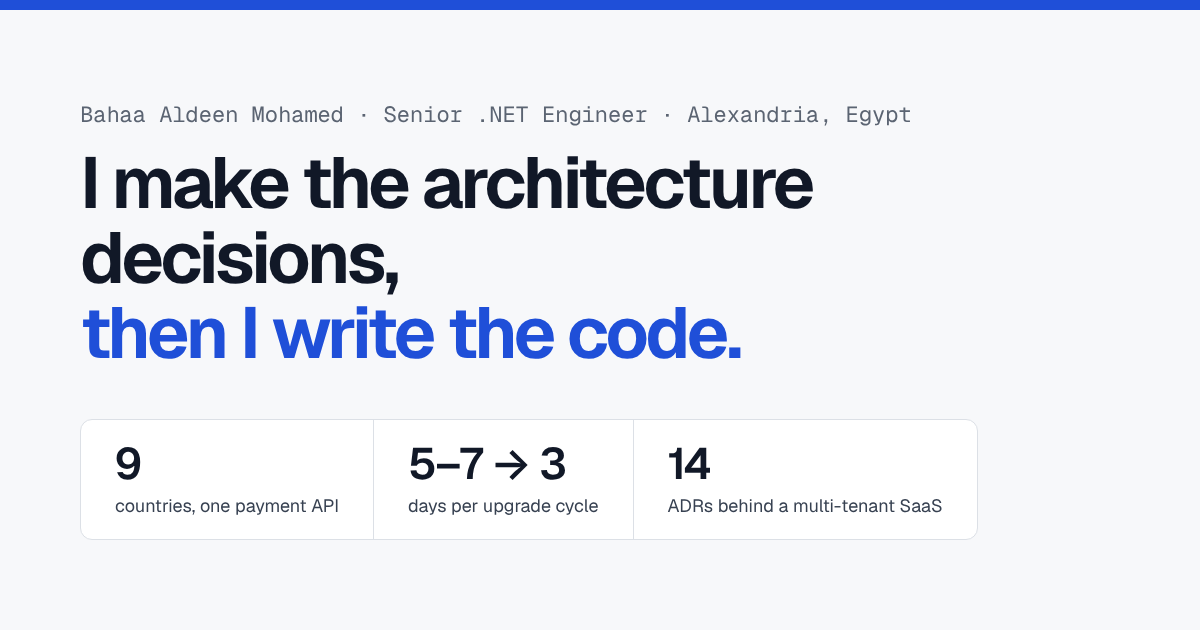
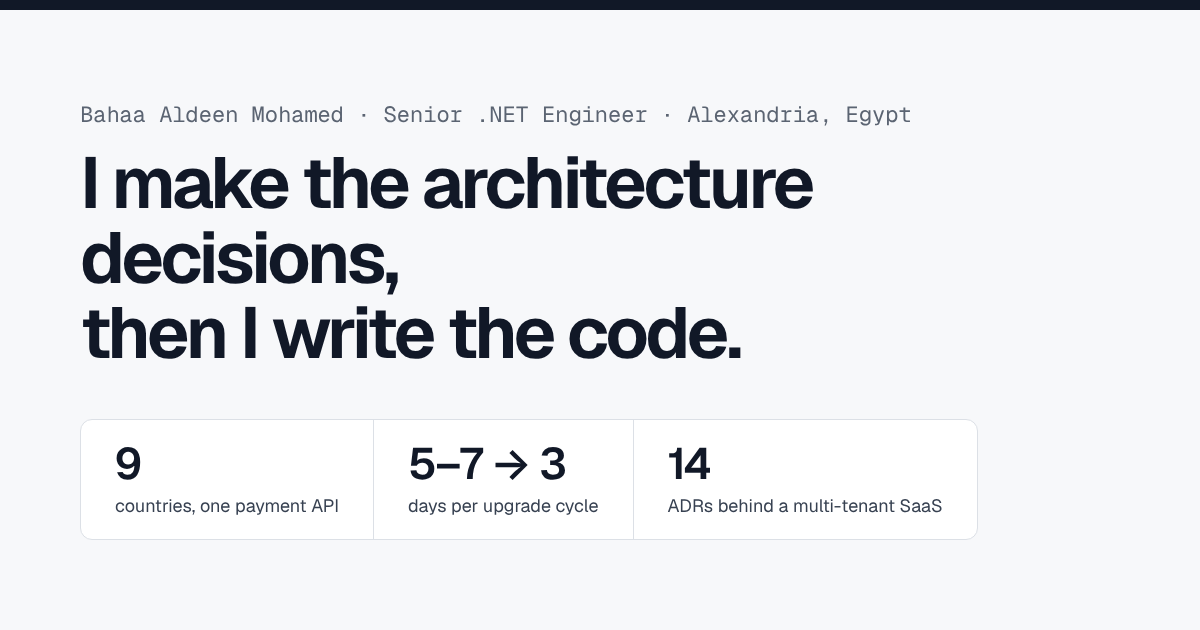
Switch to a graphite accent, add WhatsApp and CV to the dock
The owner rejected the cobalt accent after comparing six options and chose
graphite: near-black does every accent job and links stay underlined, so
nothing relies on colour. Tokens, contrast notes, DESIGN.md and the link
preview image follow.

The contact dock gains WhatsApp (wa.me, derived from the phone number so the
digits are never printed) and a filled CV download; prerender.py's static
dock mirrors it. Disclosures ("Also across the stack", "Show N more") are
now outlined buttons with a turning chevron — as bare text they read as
headings and were missed.

Claude-Session: https://claude.ai/code/session_017tXqJyyeoc4XyhM5CvdD5D

Changed region(s): [[0.0617, 0.4825, 0.6167, 0.573], [0.0, 0.0, 1.0, 0.0302]]

diff --git a/src/Cv.Web/wwwroot/css/app.css b/src/Cv.Web/wwwroot/css/app.css
@@ -1,8 +1,8 @@
 /* ==========================================================================
    SPEC SHEET — the showcase's visual world (2026-10-04).
 
-   The portfolio as good engineering documentation: cool neutral greys, one
-   cobalt accent, a modern grotesk with its own mono, flat sections separated
+   The portfolio as good engineering documentation: cool neutral greys, a
+   graphite accent (no hue), a modern grotesk with its own mono, flat sections separated
    by hairlines, and nothing shaped like a capsule. It replaces the Annual
    Report (rag paper, ledger green, bronze) at the owner's word — he did not
    like the pills or the colours — and after a design review that found every
@@ -22,7 +22,7 @@
    cannot share one declaration list between them. Change both.
 
    Contrast (light, on --paper #f7f8fa): ink 16.9:1, ink-soft 9.8:1, ink-faint
-   5.7:1, accent 6.3:1. Dark (on #0d1117): 15.7, 9.9, 6.2, 7.7. Control
+   5.7:1, accent 16.7:1. Dark (on #0d1117): 15.7, 9.9, 6.2, 17.2. Control
    borders (--edge-silver) hold 3:1 against both grounds.
    ========================================================================== */
 
@@ -38,24 +38,26 @@
     --ink-soft: #374151;
     --ink-faint: #5b6472;
 
-    /* The one accent: cobalt. Links, the primary action, focus, "current". */
-    --accent: #1f4fd8;
-    --accent-bright: #1a3fb0;
-    --accent-wash: #ebf0fd;
-    --action-bg: #1f4fd8;
-    --action-bg-hover: #1a3fb0;
+    /* The accent is graphite: no hue. Near-black carries links (always underlined,
+       so they never rely on colour), the primary action, focus and "current".
+       Chosen 2026-10-04 over cobalt, which the owner disliked. */
+    --accent: #111827;
+    --accent-bright: #374151;
+    --accent-wash: #eef0f3;
+    --action-bg: #111827;
+    --action-bg-hover: #2d3748;
     --action-ink: #ffffff;
 
     /* Recognition is no longer a second metal — it reads as ink and accent. */
-    --gold: #1f4fd8;
-    --gold-wash: #ebf0fd;
+    --gold: #111827;
+    --gold-wash: #eef0f3;
 
     --alarm: #b42318;
     --alarm-wash: #fdecea;
 
     /* Diagram fallback hues. */
     --stage-legacy: #5b6472;
-    --stage-lead: #1f4fd8;
+    --stage-lead: #111827;
 
     /* Hairlines and control borders. --line separates; --edge-silver outlines
        interactive controls and holds 3:1 for WCAG 1.4.11. */
@@ -107,21 +109,21 @@
         --ink-soft: #b4bcc8;
         --ink-faint: #8b95a3;
 
-        --accent: #7da2ff;
-        --accent-bright: #9db8ff;
-        --accent-wash: #18233d;
-        --action-bg: #7da2ff;
-        --action-bg-hover: #9db8ff;
-        --action-ink: #0b1220;
+        --accent: #f3f4f6;
+        --accent-bright: #d1d5db;
+        --accent-wash: #1b222c;
+        --action-bg: #f3f4f6;
+        --action-bg-hover: #d1d5db;
+        --action-ink: #0d1117;
 
-        --gold: #7da2ff;
-        --gold-wash: #18233d;
+        --gold: #f3f4f6;
+        --gold-wash: #1b222c;
 
         --alarm: #f97066;
         --alarm-wash: #2d1414;
 
         --stage-legacy: #8b95a3;
-        --stage-lead: #7da2ff;
+        --stage-lead: #f3f4f6;
 
         --line: #2a323d;
         --wash: #1b222c;
@@ -144,21 +146,21 @@
     --ink-soft: #b4bcc8;
     --ink-faint: #8b95a3;
 
-    --accent: #7da2ff;
-    --accent-bright: #9db8ff;
-    --accent-wash: #18233d;
-    --action-bg: #7da2ff;
-    --action-bg-hover: #9db8ff;
-    --action-ink: #0b1220;
+    --accent: #f3f4f6;
+    --accent-bright: #d1d5db;
+    --accent-wash: #1b222c;
+    --action-bg: #f3f4f6;
+    --action-bg-hover: #d1d5db;
+    --action-ink: #0d1117;
 
-    --gold: #7da2ff;
-    --gold-wash: #18233d;
+    --gold: #f3f4f6;
+    --gold-wash: #1b222c;
 
     --alarm: #f97066;
     --alarm-wash: #2d1414;
 
     --stage-legacy: #8b95a3;
-    --stage-lead: #7da2ff;
+    --stage-lead: #f3f4f6;
 
     --line: #2a323d;
     --wash: #1b222c;
@@ -200,7 +202,7 @@ body {
     text-rendering: optimizeLegibility;
 }
 
-::selection { background: rgba(31, 79, 216, .2); }
+::selection { background: rgba(120, 130, 145, .28); }
 
 ::-webkit-scrollbar { width: 12px; height: 12px; }
 ::-webkit-scrollbar-track { background: var(--paper); }
@@ -662,34 +664,41 @@ main { display: block; padding-bottom: 4rem; }
 .chip__where { font-family: var(--font-mono); font-size: .72rem; color: var(--ink-faint); }
 
 .disclosure { margin-top: 1.4rem; }
+/*
+    A disclosure looks like the control it is: an outlined button with a chevron
+    that turns when open. The text-only summary read as a heading, so readers did
+    not see that it expanded.
+*/
 .disclosure summary {
     cursor: pointer;
     display: inline-flex;
     align-items: center;
-    gap: .4rem;
+    gap: .55rem;
     min-height: 2.75rem;
-    font-size: .95rem;
+    padding: .45rem .9rem;
+    border: 1px solid var(--edge-silver);
+    border-radius: var(--radius-sm);
+    background: var(--sheet-solid);
+    font-size: .93rem;
     font-weight: 500;
-    color: var(--accent);
+    color: var(--ink);
     list-style: none;
+    user-select: none;
+    transition: border-color .15s ease, background .15s ease;
 }
 .disclosure summary::-webkit-details-marker { display: none; }
-.disclosure summary::before {
-    content: "+";
-    display: inline-flex;
-    align-items: center;
-    justify-content: center;
-    width: 1.1rem;
-    height: 1.1rem;
-    border: 1px solid currentColor;
-    border-radius: 3px;
-    font-family: var(--font-mono);
-    font-size: .8rem;
-    line-height: 1;
+.disclosure summary::after {
+    content: "";
+    width: .45rem;
+    height: .45rem;
+    border-right: 1.5px solid currentColor;
+    border-bottom: 1.5px solid currentColor;
+    transform: translateY(-2px) rotate(45deg);
+    transition: transform .2s ease;
 }
-.disclosure[open] summary::before { content: "−"; }
-.disclosure summary:hover { color: var(--accent-bright); }
-.disclosure[open] summary { margin-bottom: .6rem; }
+.disclosure[open] summary::after { transform: translateY(2px) rotate(-135deg); }
+.disclosure summary:hover { border-color: var(--ink); }
+.disclosure[open] summary { margin-bottom: 1rem; background: var(--wash); }
 
 .skills__more { border-top: 1px solid var(--line); padding-top: .8rem; margin-top: 2.4rem; }
 
@@ -1037,6 +1046,16 @@ main { display: block; padding-bottom: 4rem; }
     text-transform: none;
 }
 .contact-dock__action svg { width: 1rem; height: 1rem; flex: none; }
+.contact-dock__action--cv {
+    background: var(--action-bg);
+    color: var(--action-ink);
+}
+.contact-dock__action--cv:hover { background: var(--action-bg-hover); color: var(--action-ink); }
+
+/* Four actions on a 390px screen: tighter padding and labels, same 44px taps. */
+@media (max-width: 430px) {
+    .contact-dock__action { padding: 0 .6rem; gap: .35rem; font-size: .84rem; }
+}
 .contact-dock__action:hover {
     color: var(--accent);
     background: var(--wash);

diff --git a/src/Cv.Web/wwwroot/og.html b/src/Cv.Web/wwwroot/og.html
@@ -26,7 +26,7 @@
             color: #111827;
             background: #f7f8fa;
             overflow: hidden;
-            border-top: 10px solid #1f4fd8;
+            border-top: 10px solid #111827;
         }
 
         .who {
@@ -43,7 +43,7 @@
             letter-spacing: -.045em;
         }
 
-        h1 span { color: #1f4fd8; }
+        h1 span { color: #111827; }
 
         .facts {
             display: flex;

diff --git a/src/Cv.Web/Components/Showcase/CareerTimeline.razor.css b/src/Cv.Web/Components/Showcase/CareerTimeline.razor.css
@@ -118,7 +118,7 @@
 }
 
 @keyframes pulse-node {
-    0%, 100% { box-shadow: 0 0 0 0 rgba(31, 79, 216, .35); }
+    0%, 100% { box-shadow: 0 0 0 0 rgba(120, 130, 145, .4); }
     50%      { box-shadow: 0 0 0 6px transparent; }
 }
 

diff --git a/_tools/prerender.py b/_tools/prerender.py
@@ -592,6 +592,8 @@ def static_contact_dock(cv: dict) -> str:
     """
     phone = cv["profile"]["phone"]
     tel = "".join(c for c in phone if c.isdigit() or c == "+")
+    # Profile.WhatsAppHref's equivalent: wa.me wants bare digits, no "+".
+    whatsapp = "https://wa.me/" + "".join(c for c in phone if c.isdigit())
     mail = e(cv["profile"]["email"])
     return (
         '<nav class="contact-dock" aria-label="Contact">'
@@ -603,12 +605,24 @@ def static_contact_dock(cv: dict) -> str:
         '2 2 0 0 1-.45 2.11L8.09 9.91a16 16 0 0 0 6 6l1.27-1.27a2 2 0 0 1 2.11-.45 12.84 12.84 0 0 0 '
         '2.81.7A2 2 0 0 1 22 16.92z"></path></svg>'
         "<span>Call</span></a>"
+        f'<a class="contact-dock__action" href="{whatsapp}" target="_blank" rel="noopener">'
+        '<svg viewBox="0 0 24 24" fill="none" stroke="currentColor" stroke-width="1.6" '
+        'stroke-linecap="round" stroke-linejoin="round" aria-hidden="true">'
+        '<path d="M7.9 20A9 9 0 1 0 4 16.1L2 22Z"></path>'
+        '</svg>'
+        "<span>WhatsApp</span></a>"
         f'<a class="contact-dock__action" href="mailto:{mail}">'
         '<svg viewBox="0 0 24 24" fill="none" stroke="currentColor" stroke-width="1.6" '
         'stroke-linecap="round" stroke-linejoin="round" aria-hidden="true">'
         '<rect x="2" y="4" width="20" height="16" rx="2"></rect>'
         '<path d="m22 6-10 7L2 6"></path></svg>'
-        "<span>Email</span></a></nav>"
+        "<span>Email</span></a>"
+        f'<a class="contact-dock__action contact-dock__action--cv" href="/{CV_PDF_NAME}" '
+        'target="_blank" rel="noopener" download>'
+        '<svg viewBox="0 0 24 24" fill="none" stroke="currentColor" stroke-width="1.6" '
+        'stroke-linecap="round" stroke-linejoin="round" aria-hidden="true">'
+        '<path d="M12 3v12m-5-5 5 5 5-5M5 21h14"></path></svg>'
+        "<span>CV</span></a></nav>"
     )
 
 

diff --git a/src/Cv.Domain/CvDocument.cs b/src/Cv.Domain/CvDocument.cs
@@ -93,6 +93,12 @@ public sealed record Profile
 
     /// <summary>Digits only, for the tel: href.</summary>
     public string PhoneHref => "tel:" + new string([.. Phone.Where(c => char.IsDigit(c) || c == '+')]);
+
+    /// <summary>
+    /// A wa.me chat link for the same number. wa.me wants the international number as
+    /// bare digits — no "+", no spaces — so it is derived from Phone, never typed.
+    /// </summary>
+    public string WhatsAppHref => "https://wa.me/" + new string([.. Phone.Where(char.IsDigit)]);
 }
 
 /// <summary>A named cluster of skills, e.g. "Architecture &amp; Patterns".</summary>

diff --git a/DESIGN.md b/DESIGN.md
@@ -1,17 +1,17 @@
 ---
 name: Spec Sheet
-description: The portfolio as good engineering documentation — cool neutral greys, one cobalt accent, Geist and Geist Mono, flat sections separated by hairlines, and nothing shaped like a capsule.
+description: The portfolio as good engineering documentation — cool neutral greys, a graphite (no-hue) accent, Geist and Geist Mono, flat sections separated by hairlines, and nothing shaped like a capsule.
 colors:
   paper: "#f7f8fa"          # page ground            dark: #0d1117
   sheet-solid: "#ffffff"    # framed panels          dark: #151b23
   ink: "#111827"            # headings, primary text dark: #e6eaf0
   ink-soft: "#374151"       # prose                  dark: #b4bcc8
   ink-faint: "#5b6472"      # smallest text          dark: #8b95a3
-  accent: "#1f4fd8"         # links, primary, focus  dark: #7da2ff
-  accent-bright: "#1a3fb0"  # hover                  dark: #9db8ff
-  accent-wash: "#ebf0fd"    # quiet accent fill      dark: #18233d
-  action-bg: "#1f4fd8"      # primary button fill    dark: #7da2ff
-  action-ink: "#ffffff"     # text on the fill       dark: #0b1220
+  accent: "#111827"         # links, primary, focus  dark: #f3f4f6
+  accent-bright: "#374151"  # hover                  dark: #d1d5db
+  accent-wash: "#eef0f3"    # quiet accent fill      dark: #1b222c
+  action-bg: "#111827"      # primary button fill    dark: #f3f4f6
+  action-ink: "#ffffff"     # text on the fill       dark: #0d1117
   line: "#dce0e6"           # hairlines              dark: #2a323d
   edge-silver: "#858e9c"    # control borders, 3:1   dark: #5e6878
   wash: "#eef0f3"           # tag fill               dark: #1b222c
@@ -51,8 +51,10 @@ about twenty capsule rules; a broken key-figures row) and a hiring-manager read
 1. **One surface, few frames.** Sections are flat and separated by whitespace and one
    hairline. Only evidence is framed: the hero's key figures, a study's outcomes,
    awards, prev/next links. A frame means "this is the proof".
-2. **One accent.** Cobalt marks links, the primary action, focus, the current nav
-   item and the current role. Nothing else is coloured. Recognition is plain ink.
+2. **No hue.** The accent is graphite (2026-10-04: the owner rejected cobalt after
+   seeing six options). Near-black marks the primary action, focus, the current nav
+   item and the current role; links are always underlined so they never rely on
+   colour. Nothing on the page carries a hue except photos and diagrams.
 3. **No capsules.** Buttons are 6px rectangles in sentence case; tags are 3px squares
    with no border; status ("Current", "Returned", "In progress") is text with a
    marker; the theme switch is squared off. Skills are cited rows, not chips.
@@ -71,6 +73,9 @@ about twenty capsule rules; a broken key-figures row) and a hiring-manager read
 - **Case study pages:** long-form styles live in app.css (`.study*`), 68ch measure,
   paragraphs split on blank lines in cv.json, outcomes framed, third-party evidence
   ("Check it yourself") when the study carries `evidence` links.
+- **Contact dock:** fixed bar with Call, WhatsApp (wa.me, derived from the phone),
+  Email and CV (filled, the PDF). Mirrored in prerender.py's `static_contact_dock`.
+- **Disclosures:** outlined buttons with a turning chevron, never bare text.
 - **Pre-boot document:** `.prerendered` gets a readable document style — it is the
   whole page for visitors whose runtime never boots.
 
@@ -86,6 +91,6 @@ about twenty capsule rules; a broken key-figures row) and a hiring-manager read
 
 ## Don't
 
-- Don't reintroduce capsules, cream/paper grounds, a second accent or bronze.
+- Don't reintroduce capsules, cream/paper grounds, a coloured accent or bronze.
 - Don't add cards inside sections or shadows on sections.
 - Don't type a figure into markup.
